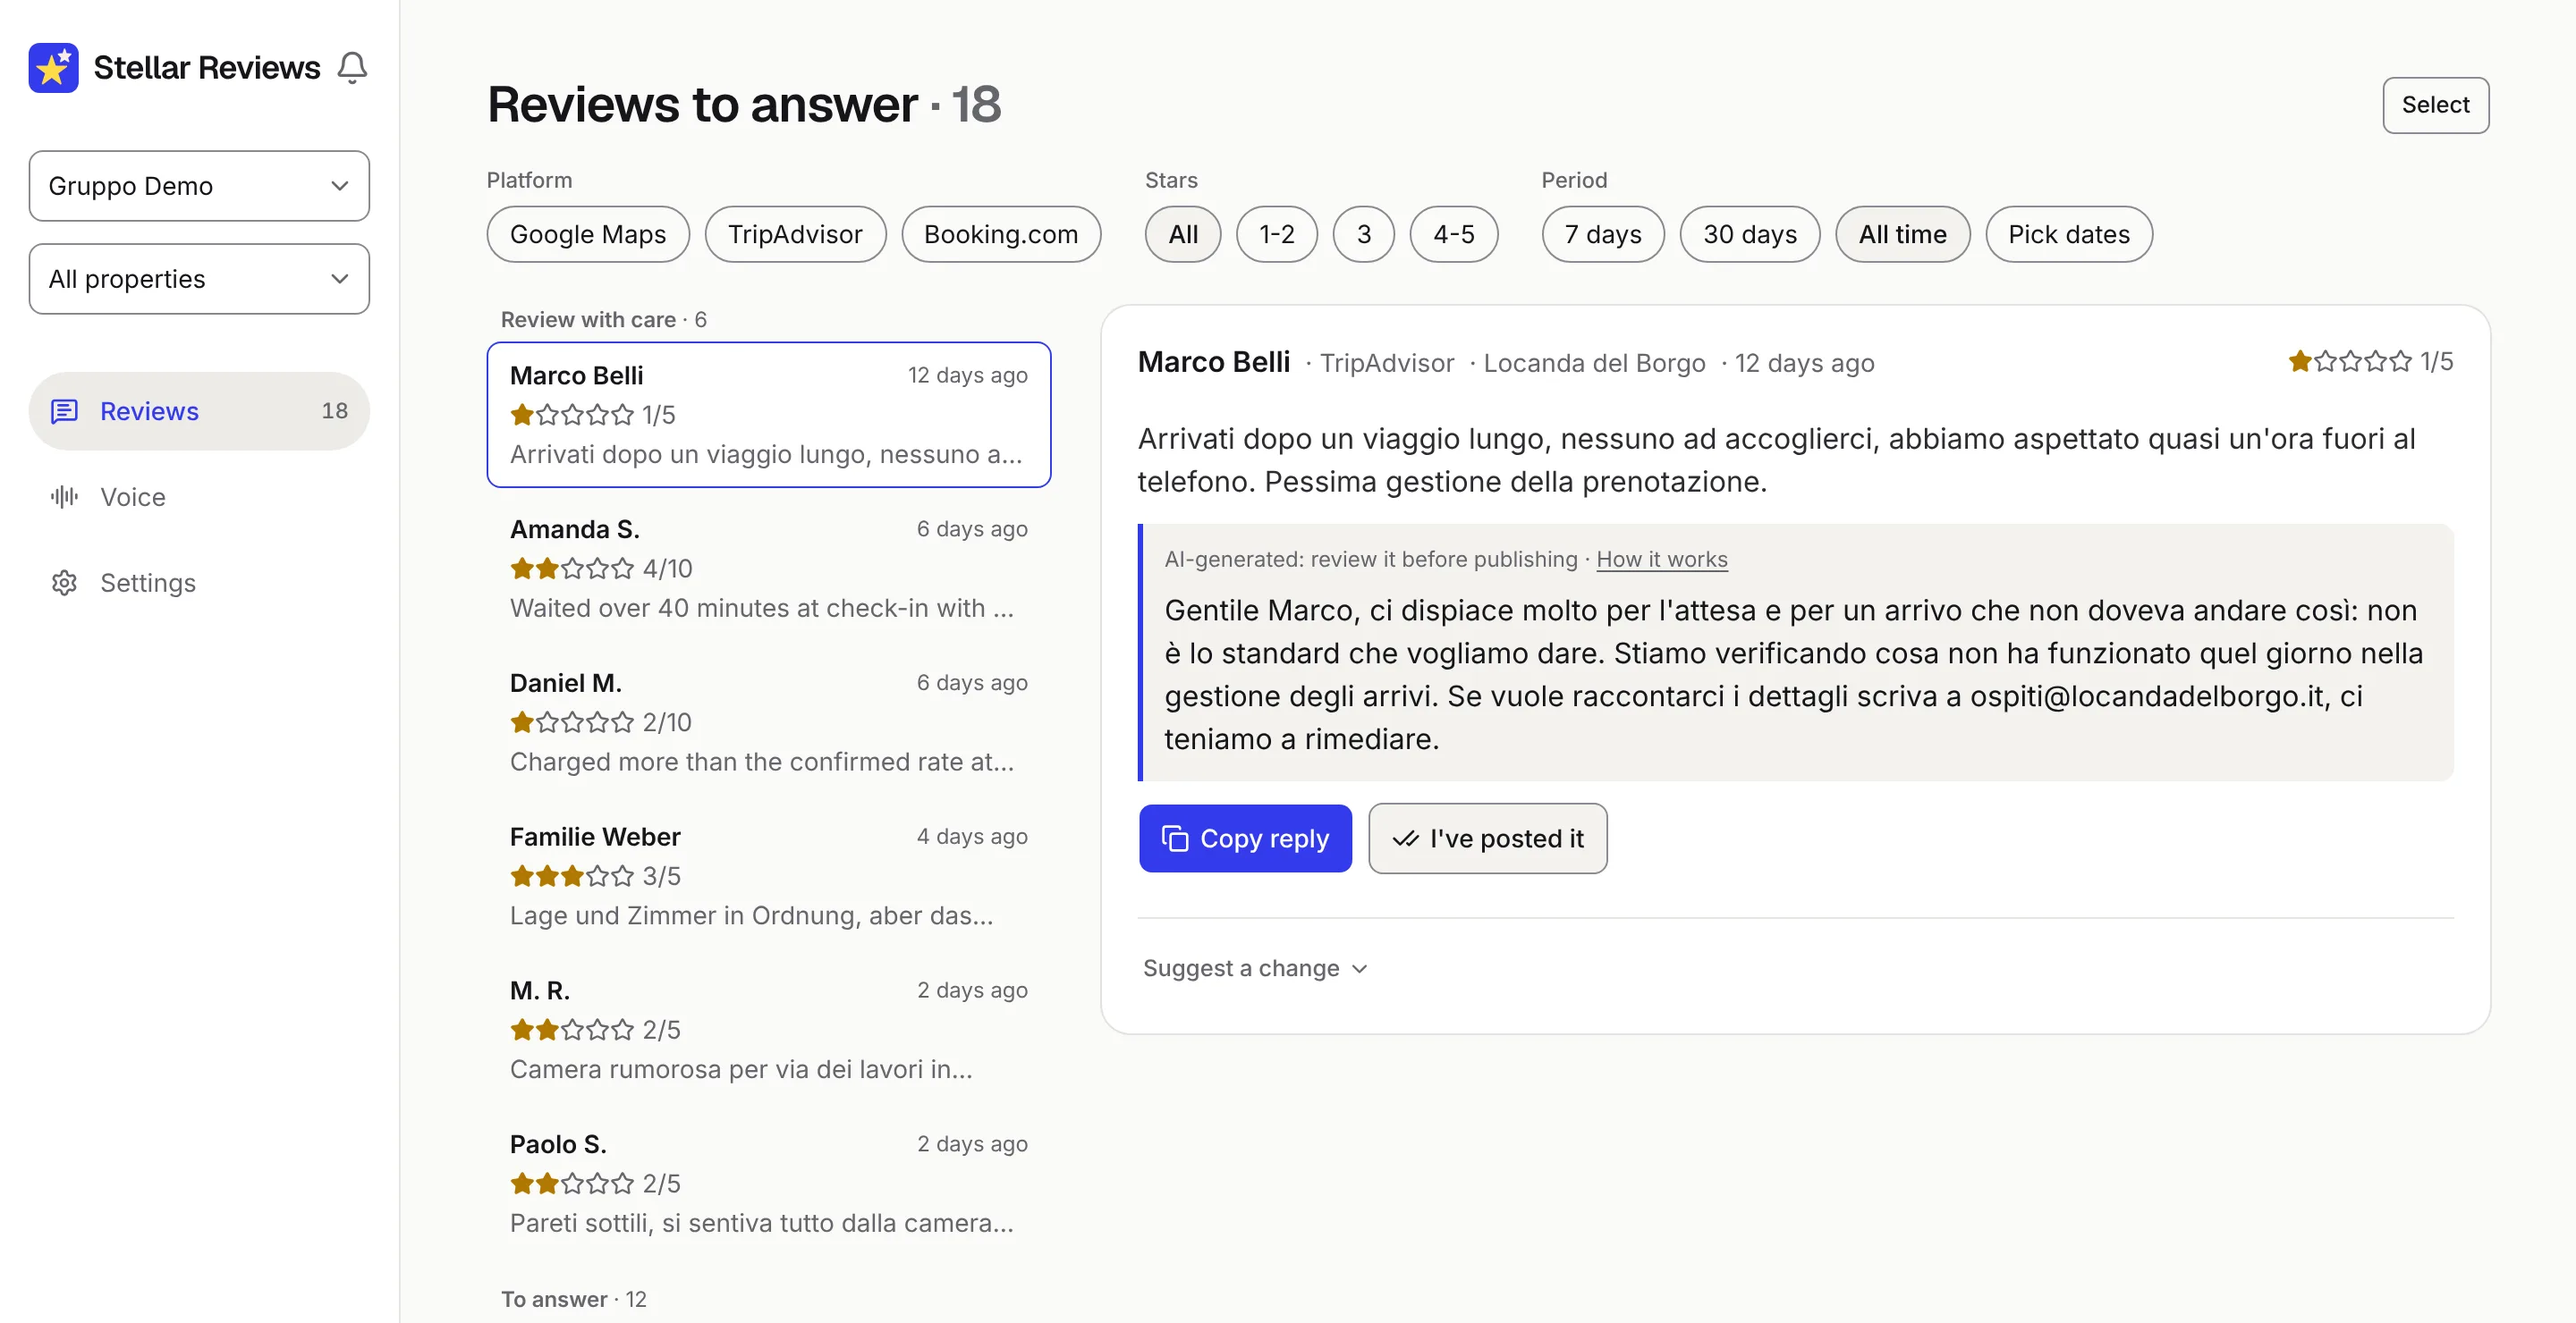
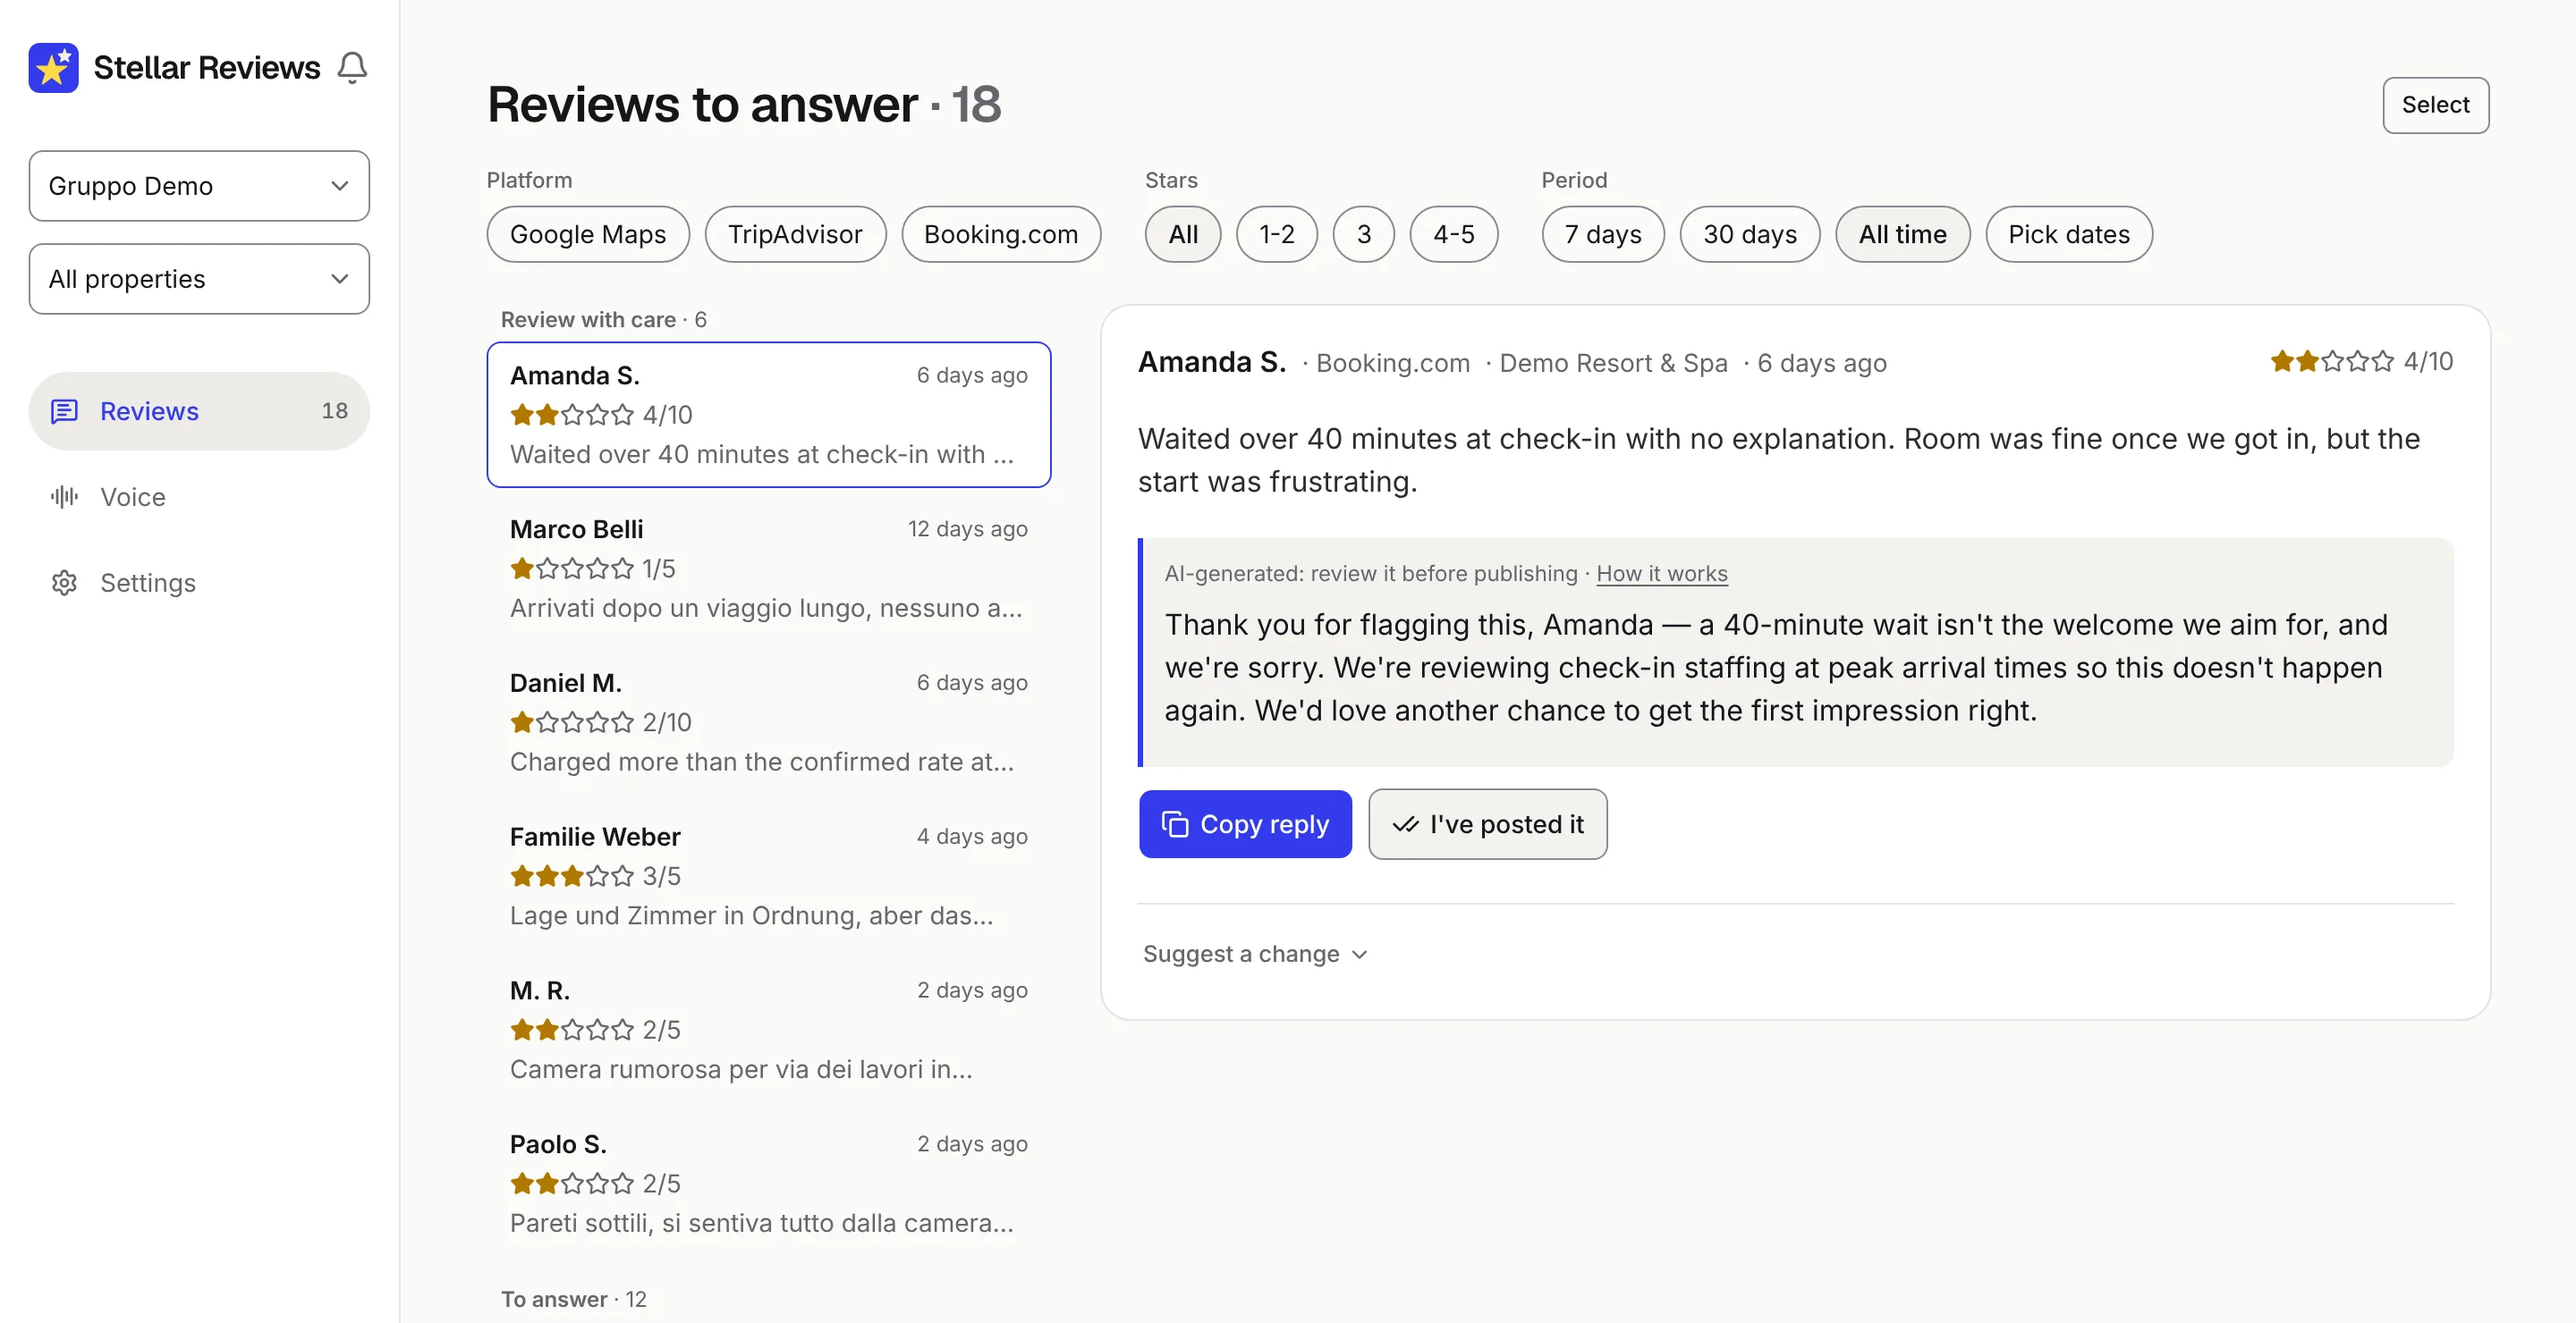
Stellar Reviews: scatto inglese con recensione in inglese, etichette piattaforme allineate (#86)
Su /en la demo mostra la recensione di un ospite inglese con la risposta in inglese
(senza il blocco traduzione verso l'italiano). Le righe Oggi/In arrivo hanno entrambe
i due punti e le liste partono allineate (dl a due colonne).

Claude-Session: https://claude.ai/code/session_013xKjkqUH7F7NVQwsRpqThn

diff --git a/lib/landing-content.ts b/lib/landing-content.ts
@@ -1679,8 +1679,8 @@ export const landing = {
         { name: "Hotels.com", icon: "simple-icons:hotelsdotcom", color: "#EF3346" },
         { name: "Airbnb", icon: "simple-icons:airbnb", color: "#FF5A5F" },
       ],
-      todayLabel: { it: "Oggi", en: "Today" },
-      comingLabel: { it: "In arrivo", en: "Coming soon:" },
+      todayLabel: { it: "Oggi:", en: "Today:" },
+      comingLabel: { it: "In arrivo:", en: "Coming soon:" },
       and: { it: "e", en: "and" },
       faq: {
         q: {
@@ -1716,7 +1716,7 @@ export const landing = {
         },
         alt: {
           it: "Stellar Reviews dal computer: a sinistra la coda delle recensioni a cui rispondere, a destra una recensione da una stella su TripAdvisor con la risposta proposta dall'AI e i pulsanti Copia risposta e Ho pubblicato.",
-          en: "Stellar Reviews on a computer: on the left the queue of reviews to answer, on the right a one-star TripAdvisor review with the AI-suggested reply and the Copy reply and I've posted it buttons.",
+          en: "Stellar Reviews on a computer: on the left the queue of reviews to answer, on the right a Booking.com review rated 4 out of 10, about a long check-in wait, with the AI-suggested reply and the Copy reply and I've posted it buttons.",
         },
       },
       mobile: {
@@ -1726,7 +1726,7 @@ export const landing = {
         },
         alt: {
           it: "Stellar Reviews dal telefono: la recensione da rivedere con cura e la risposta proposta dall'AI, da rileggere prima di pubblicarla.",
-          en: "Stellar Reviews on a phone: a review to handle with care and the AI-suggested reply, to read through before publishing.",
+          en: "Stellar Reviews on a phone: a Booking.com review about a long check-in wait and the AI-suggested reply, to read through before publishing.",
         },
       },
       caption: {

diff --git a/app/[locale]/stellar-reviews/page.tsx b/app/[locale]/stellar-reviews/page.tsx
@@ -125,20 +125,24 @@ export default async function StellarReviewsPage({
         title={title[lang]}
         intro={intro}
       >
-        <p className="mt-4 max-w-[62ch] text-[15px] leading-loose text-muted">
-          {platforms.todayLabel[lang]}{" "}
-          <PlatformList items={platforms.today} and={platforms.and[lang]} />.
-          {/* Riga a sé: il gruppo "In arrivo" non si mescola mai a quelle di oggi. */}
-          <span className="block">
-            {platforms.comingLabel[lang]}{" "}
+        {/* Due righe con le etichette in colonna, così le liste partono allineate
+            anche quando vanno a capo. "In arrivo" ha sempre la sua riga: non si
+            mescola mai alle piattaforme di oggi. */}
+        <dl className="mt-4 grid max-w-[62ch] grid-cols-[auto_1fr] gap-x-2 text-[15px] leading-loose text-muted">
+          <dt>{platforms.todayLabel[lang]}</dt>
+          <dd>
+            <PlatformList items={platforms.today} and={platforms.and[lang]} />.
+          </dd>
+          <dt>{platforms.comingLabel[lang]}</dt>
+          <dd>
             <PlatformList
               items={platforms.coming}
               and={platforms.and[lang]}
               logoClassName="opacity-60"
             />
             .
-          </span>
-        </p>
+          </dd>
+        </dl>
         <div className="mt-8 flex flex-wrap items-center gap-3">
           <a
             href={app.demo.href}

diff --git a/PLAN.md b/PLAN.md
@@ -49,7 +49,7 @@ Regole d'uso in fondo al file. Ultimo aggiornamento: 2026-10-11 (Federico - quic
 | 23 | **Stellar Reviews: nuovo marchio e web app online** (richiesta Federico 2026-10-10): logo del kit del marchio (icona, logo orizzontale nell'anteprima della card di /prodotti), OG image italiana del kit su `/it/stellar-reviews`. Pagina prodotto riscritta su quello che l'app fa oggi (bozze ogni mattina, voce della struttura, riscrittura, pubblicazione umana, filtri, team, email, PWA, trasparenza AI Act, dati in UE): pulsanti "Prova la demo" e "Vedi i prezzi", "Richiedi l'accesso" (l'iscrizione è ancora su invito), "Da 24 € al mese, con piano gratuito" senza tabella prezzi. "Come lo attivi": self-service per primo, implementazione business su misura con audit gratuito. Card /prodotti con tagline nuova; nessuna modifica al caso studio in Sanity (testo ancora corretto) | Federico (agente autonomo) | [PR #82](https://github.com/cesarebed/flylabs-website/pull/82) | ✅ mergiata (2026-10-10) |
 | 24 | **Quick win di conversione** (richiesta Federico 2026-10-10, dalla revisione completa del sito): (a) eventi GA4 di conversione, solo con consenso alle Statistiche: `generate_lead` al form inviato, `book_call_click` su ogni link TidyCal, `chatbot_open`, `case_open` con la sezione di provenienza (`components/consent/track-clicks.tsx`, un listener delegato); (b) CTA unica "Prenota una call" / "Prenota 15 minuti" verso TidyCal in nav, hero, fine dei casi e chiusura di /servizi, in nuova scheda con avviso per gli screen reader; senza `bookingUrl` su Sanity si torna a "Parliamone" → `#cta`. Il form resta nella sezione finale | Federico (agente) | [PR #83](https://github.com/cesarebed/flylabs-website/pull/83) | ✅ |
 | 25 | **Quick win accessibilità e SEO** (richiesta Federico 2026-10-11, dalla revisione del sito): (a) testo minimo 12 px: `.kicker` 11→12, `.stamp` 10→12, badge tech, contatore del carosello, durata nelle card offerta, etichette delle pagine caso, nota del chatbot e badge del banner cookie; escluso il pannello finto dell'hero (`hero-scenarios.tsx`), che è un'illustrazione di UI; (b) JSON-LD `Service` per i tre binari di /servizi, collegati all'Organization via `provider` (non `ProfessionalService`: sottotipo di LocalBusiness, Google vuole un indirizzo) | Federico (agente) | [PR #84](https://github.com/cesarebed/flylabs-website/pull/84) | ✅ |
-| 26 | **Stellar Reviews: piattaforme di oggi e in arrivo** (richiesta Federico 2026-10-12): su `/stellar-reviews` riga sotto il sottotitolo dell'hero con i loghi Simple Icons (CC0, offline via `@iconify-json/simple-icons`, già installato): "Oggi Google, Booking.com e Tripadvisor", a capo "In arrivo Expedia, Hotels.com e Airbnb" con i loghi al 60%; domanda "Funziona con Booking e Tripadvisor?" con la mail `stellar@flylabs.ai` per chiedere altre piattaforme; nella card self-service la nota "le piattaforme in arrivo non sono comprese nei piani". Card di /prodotti, home e caso studio invariati (solo le tre di oggi). Poi (2026-10-13): "G" ufficiale a quattro colori di Google (set `logos`) e schermate reali della demo sotto l'hero, computer + telefono, IT/EN, con il filtro Expedia della demo nascosto nello scatto | Federico (agente) | branch `claude/stellar-reviews-platforms-7n843c` | ✅ mergiata (2026-10-14, #85) |
+| 26 | **Stellar Reviews: piattaforme di oggi e in arrivo** (richiesta Federico 2026-10-12): su `/stellar-reviews` riga sotto il sottotitolo dell'hero con i loghi Simple Icons (CC0, offline via `@iconify-json/simple-icons`, già installato): "Oggi Google, Booking.com e Tripadvisor", a capo "In arrivo Expedia, Hotels.com e Airbnb" con i loghi al 60%; domanda "Funziona con Booking e Tripadvisor?" con la mail `stellar@flylabs.ai` per chiedere altre piattaforme; nella card self-service la nota "le piattaforme in arrivo non sono comprese nei piani". Card di /prodotti, home e caso studio invariati (solo le tre di oggi). Poi (2026-10-13): "G" ufficiale a quattro colori di Google (set `logos`) e schermate reali della demo sotto l'hero, computer + telefono, IT/EN, con il filtro Expedia della demo nascosto nello scatto. Ritocco (2026-10-14): su /en lo scatto mostra una recensione in inglese, etichette "Oggi:"/"In arrivo:" uniformate e allineate in colonna | Federico (agente) | branch `claude/stellar-reviews-platforms-7n843c` | ✅ mergiata (2026-10-14, #85) |
 
 ## Decisioni prese
 
